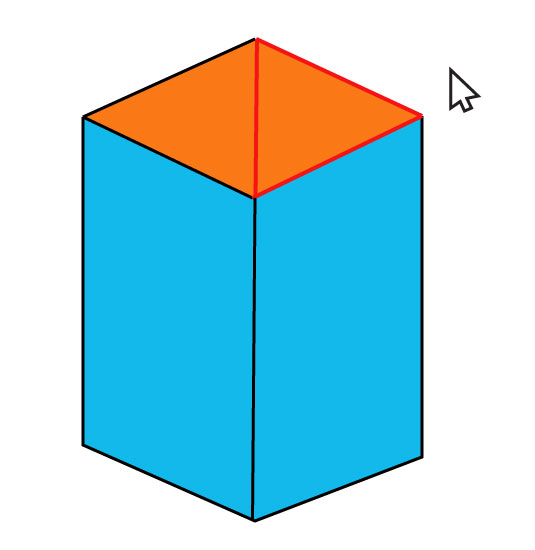
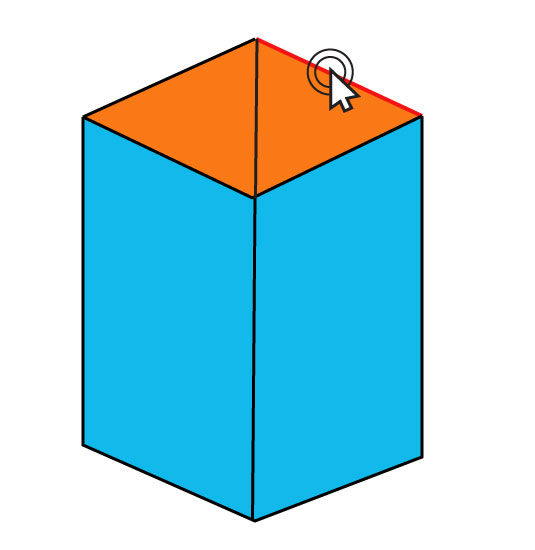
fix texts, help images, remove goNextPageAutomatic option, fix test questions

diff --git a/src/app/components/witkin/WitkinHelp.html b/src/app/components/witkin/WitkinHelp.html
@@ -1,37 +1,41 @@
-<div class="marginLeft10"><h3>Інструкція.</h3>
+<div class="marginLeft10">
+  <h2 class="text-center">Методика 3</h2>
+  <p>
+    Інструкція. Вам буде показано 24 складні фігури. До кожної складної
+    фігури буде запропоновано просту фігуру, яка міститься у складній і є
+    її частиною. Ваше завдання – знайти і виділити цю просту фігуру у
+    складній.
+    На пошук кожної простої фігури  надається 120 секунд. Результатом
+    тесту вважається час, витрачений на виконання всіх 24 завдань.
+  </p>
+  <h2 class="text-center">Приклад</h2>
   <div>
-    <p>1. Спочатку, впродовж п’ятнадцяти секунд, ви побачите складну фігуру. Її необхідно ретельно роздивитись і запам’ятати. (Ілюстрація 1)</p>
+    <p>1. Спочатку, впродовж п’ятнадцяти секунд, ви побачите складну фігуру.(Ілюстрація 1) Її необхідно ретельно роздивитись і запам’ятати. </p>
     <img src="images/witkin_help_1.jpg" id="image1"><label for="image1">Ілюстрація 1</label><Br>
   </div>
   <div>
-    <p>2. Далі на екрані з’явиться проста фігура. Це триватиме десять секунд. Після того, ви знов побачите складну фігуру. Разом з тим розпочнеться відлік часу.  (Ілюстрація 2) </p>
-    <img src="images/witkin_help_2.jpg" id="image2"><label for="image1">Ілюстрація 2</label><Br>
+    <p>2. Далі на екрані з’явиться проста фігура. (Ілюстрація 2) Це триватиме десять секунд. Після того, ви знов побачите складну фігуру. Разом з тим розпочнеться відлік часу. </p>
+    <img src="images/witkin_help_2.jpg" id="image2"><label for="image2">Ілюстрація 2</label><Br>
   </div>
   <div>
-    <p>3. Як тільки ви віднайдете просту фігуру у складній, натисніть кнопку «ФІГУРУ ЗНАЙДЕНО».</p>
+    <p>3. Як тільки ви віднайдете просту фігуру у складній, натисніть кнопку «ФІГУРУ ЗНАЙДЕНО». (Ілюстрація 3)</p>
+    <img src="images/witkin_help_3.jpg" id="image3" style="padding: 30px"><label for="image3">Ілюстрація 3</label><Br>
   </div>
   <div>
     <p>4. Усі лінії складної фігури стануть інтерактивними. При наведенні курсору лінія забарвлюється в синій колір.  (Ілюстрація 3) </p>
-    <img src="images/witkin_help_3.jpg" id="image3"><label for="image1">Ілюстрація 3</label><Br>
+    <img src="images/witkin_help_4.jpg" id="image4"><label for="image4">Ілюстрація 4</label><Br>
   </div>
   <div>
     <p>5. Щоб виділити лінію, клацніть по ній лівою кнопкою миші. Колір лінії при цьому зміниться на жовтий.  (Ілюстрація 4) </p>
-    <img src="images/witkin_help_4.jpg" id="image4"><label for="image1">Ілюстрація 4</label><Br>
+    <img src="images/witkin_help_5.jpg" id="image5"><label for="image5">Ілюстрація 5</label><Br>
   </div>
   <div>
-    <p>За допомогою курсору слід виділити ті грані складної фігури, які утворюють просту фігуру (Ілюстрація 5). Коли завдання виконано, натисніть кнопку «ДАЛІ». </p>
-    <img src="images/witkin_help_5.jpg" id="image5"><label for="image1">Ілюстрація 5</label><Br>
+    <p>За допомогою курсору слід виділити ті лінії складної фігури, які утворюють просту фігуру (Ілюстрація 5). Коли завдання виконано, натисніть кнопку «ДАЛІ». </p>
+    <img src="images/witkin_help_6.jpg" id="image6"><label for="image6">Ілюстрація 6</label><Br>
   </div>
-
-  <div class="alert alert-danger text-center">
-    <h2>Увага!</h2>
-    <strong>Дуже важливо натискати кнопку «ФІГУРУ ЗНАЙДЕНО» тільки після того як ви побачили просту фігуру у складній. Це необхідно для отримання коректних результатів нашого дослідження. В іншому випадку воно виявиться недостовірним.
-      Дякуємо за свідому позицію!</strong>
-  </div>
-  <hr>
   <div class="form-group">
     <div class="col-sm-6 col-sm-offset-3">
-      <button type="submit" class="btn btn-primary btn-block" ng-click="$ctrl.startTest()">Розпочати тест</button>
+      <button type="submit" class="btn btn-primary btn-block" ng-click="$ctrl.startTest()">Далі</button>
     </div>
   </div>
   <br>

diff --git a/src/app/components/circles/CirclesTest.html b/src/app/components/circles/CirclesTest.html
@@ -1,8 +1,15 @@
 <div ng-hide="$ctrl.isTestStarted" style="width: 90%" class="marginLeft10">
+  <br>
+  <div class="alert alert-info text-center">
+    Дві наступні методики створено, щоб дізнатися, як люди регулюють свої
+    взаємовідносини. Перша спрямована на з’ясування загальних особливостей
+    Ваших стосунків з певною людиною. Друга методика досліджує Ваші дії та
+    переживання у стосунках з тою ж людиною.
+  </div>
   <h2 class="text-center">Методика 1</h2>
   <div>
-    <p>За допомогою кіл на цьому малюнку зображено різні варіанти стосунків між людьми. Кола можуть бути одне над іншим, далеко одне від одного, близько, можуть перетинатися, сполучатися і т. д. </p>
-    <p>Будь ласка, пригадайте конкретну людину у вашому житті, стосунки з якою підпадають під один з доступних для вибору варіантів. Це може бути будь-хто, з ким ви бачитеся раз на місяць або набагато частіше, спілкуєтесь, можливо робите щось разом, тобто маєте більш-менш інтенсивні взаємовідносини.</p>
+    <p><strong>Інструкція.</strong> За допомогою кіл на цьому малюнку зображено різні варіанти стосунків між людьми. Кола можуть бути одне над іншим, далеко одне від одного, близько, можуть перетинатися, сполучатися і т. д. </p>
+    <p>Будь ласка, пригадайте конкретну людину у вашому житті, стосунки з якою підпадають під один з доступних для вибору варіантів. (Це може бути будь-хто, з ким ви бачитеся раз на місяць або набагато частіше, спілкуєтесь, можливо робите щось разом, тобто маєте більш-менш інтенсивні взаємовідносини.)</p>
     <strong class="text-center">Щоб зробити свій вибір, клацніть по обраному вами зображенню.</strong>
   </div>
   <br>
@@ -39,10 +46,10 @@
     </div>
   </div>
   <p>Якщо вам не вдається згадати людину, стосунки з якою підпадали б під один з доступних варіантів, ми пропонуємо краще відмовитися від подальшого тестування, аніж «підтягувати» не зовсім відповідні стосунки під доступний для вибору варіант. Інакше, це може негативно вплинути на успішність нашого дослідження.</p>
-  <p>У будь-якому випадку, ми надзвичайно вдячні вам за готовність допомогти нам у реалізації цього проекту</p>
+  <p>У будь-якому випадку, ми надзвичайно вдячні вам за готовність допомогти у реалізації цього проекту</p>
   <br>
   <div class="col-sm-6 col-sm-offset-4">
     <button type="submit" class="btn btn-green" ng-click="$ctrl.nextTest()">ПРОДОВЖИТИ ДАЛІ</button>
-    <button type="submit" class="btn btn-red" ng-click="$ctrl.finishTest()">ЗАВЕРШИТИ ТЕСТУВАННЯ</button>
+    <button type="submit" class="btn btn-red" ng-click="$ctrl.finishTest()">Не продовжувати ТЕСТУВАННЯ</button>
   </div>
 </div>

diff --git a/src/app/components/witkin/WitkinTest.js b/src/app/components/witkin/WitkinTest.js
@@ -15,6 +15,7 @@ class WitkinTestController {
     this.isTimerStarted = false;
     this.TEXT_STEP_1 = 'Складна фігура';
     this.TEXT_STEP_2 = 'Проста фігура';
+    this.MAX_SEARCH_TIME = 120;
     this.canvas = new fabric.Canvas('c');
     this.id = parseInt($stateParams.id, 10);
     $http.get('tests/test' + this.id + '.json')
@@ -72,7 +73,7 @@ class WitkinTestController {
       });
     });
     this.showLayers(['background', 'lines'].concat(this.answers));
-    this.info = this.TEXT_STEP_1 + ' ' + (this.SHOW_TEST_TIME / 1000) + ' с. ';
+    this.info = this.TEXT_STEP_1 + ' ' + this.id + ' з ' + this.TESTS_COUNT + ' - ' + (this.SHOW_TEST_TIME / 1000) + ' с. ';
     this.refresh();
     console.log('init complete');
     this.$timeout(this.showRequired.bind(this), 1000);
@@ -120,7 +121,7 @@ class WitkinTestController {
       this.refresh();
       this.$timeout(this.startTimer.bind(this), 1000);
     } else {
-      this.info = this.TEXT_STEP_1 + ' ' + (this.SHOW_TEST_TIME / 1000) + ' с. ';
+      this.info = this.TEXT_STEP_1 + ' ' + this.id + ' з ' + this.TESTS_COUNT + ' - ' + (this.SHOW_TEST_TIME / 1000) + ' с. ';
       this.$timeout(this.showRequired.bind(this), 1000);
     }
   }
@@ -132,9 +133,19 @@ class WitkinTestController {
       this.info = '';
       this.isTimerStarted = true;
       this.refresh();
+      this.$timeout(this.showElapsedTime.bind(this), 1000);
     } else {
       this.info = this.TEXT_STEP_2 + ' ' + (this.SHOW_REQUIRED_TIME / 1000) + ' с. ';
       this.$timeout(this.startTimer.bind(this), 1000);
+    }
+  }
+  showElapsedTime() {
+    if (!this.isTestStarted) {
+      const currentTime = parseInt(this.getCurrentTime() - this.startTime, 10);
+      if (currentTime <= this.MAX_SEARCH_TIME) {
+        this.info = `Пошук фігури: ${currentTime} с.`;
+        this.$timeout(this.showElapsedTime.bind(this), 1000);
+      }
     }
   }
   startTest() {
@@ -210,6 +221,7 @@ class WitkinTestController {
         const nextTest = this.id + 1;
         this.$state.go('witkin-start', {id: nextTest});
       } else if (this.userService.getFirstTestName() === 'circles') {
+        // TODO: send results to db
         this.$state.go('end');
       } else {
         this.$state.go('circles');

diff --git a/src/app/components/witkin/WitkinHelp2.html b/src/app/components/witkin/WitkinHelp2.html
@@ -1,0 +1,17 @@
+  <br>
+  <br>
+  <div class="alert alert-danger text-center">
+    <h2>Увага!</h2>
+    <strong>  Дуже важливо натискати кнопку «ФІГУРУ ЗНАЙДЕНО» тільки після того, як
+      ви побачили просту фігуру у складній. Це необхідно для отримання
+      коректних результатів нашого дослідження. Якщо Ви натискатимете цю
+      кнопку передчасно, тестування виявиться недостовірним.  <br>
+      Дякуємо за свідому позицію!</strong>
+  </div>
+  <div class="form-group">
+    <div class="col-sm-6 col-sm-offset-3">
+      <button type="submit" class="btn btn-primary btn-block" ng-click="$ctrl.startTest()">Розпочати тест</button>
+    </div>
+  </div>
+  <br>
+  <br>

diff --git a/src/app/components/assertions/AssertionTest.js b/src/app/components/assertions/AssertionTest.js
@@ -17,7 +17,7 @@ class AssertionTestController {
     Survey.Survey.cssType = 'bootstrap';
     Survey.defaultBootstrapCss.navigationButton = 'btn btn-green';
     Survey.defaultBootstrapCss.progressBar = 'bar-green';
-    const surveyJSON = {locale: 'ru', pages: [], requiredText: '', showProgressBar: 'top', goNextPageAutomatic: true};
+    const surveyJSON = {locale: 'ru', pages: [], requiredText: '', showProgressBar: 'top', goNextPageAutomatic: false};
     const len = questions.length;
     for (let i = 0; i < len; i++) {
       if (questions[i].length > 0) {
@@ -69,6 +69,7 @@ class AssertionTestController {
   finishTest(survey) {
     // const resultAsString = angular.toJson(survey.data);
     this.userService.setAssertions(survey.data);
+    // TODO: send results to db
     if (this.userService.getUser().firstTest === 'witkin') {
       this.$state.go('end');
     } else {

diff --git a/src/index.js b/src/index.js
@@ -7,6 +7,7 @@ import {main} from './app/components/Main';
 import {editor} from './app/components/editor/Editor';
 import {witkinTest} from './app/components/witkin/WitkinTest';
 import {witkinHelp} from './app/components/witkin/WitkinHelp';
+import {witkinHelp2} from './app/components/witkin/WitkinHelp2';
 import {assertionTest} from './app/components/assertions/AssertionTest';
 import {circlesTest} from './app/components/circles/CirclesTest';
 import {endTest} from './app/components/end/EndTest';
@@ -23,6 +24,7 @@ angular
   .component('editor', editor)
   .component('visualTest', witkinTest)
   .component('witkinHelp', witkinHelp)
+  .component('witkinHelp2', witkinHelp2)
   .component('assertionTest', assertionTest)
   .component('circlesTest', circlesTest)
   .component('endTest', endTest);

diff --git a/src/app/components/Main.js b/src/app/components/Main.js
@@ -47,13 +47,13 @@ class MainController {
       city: this.$scope.city,
       time: moment().valueOf()
     };
-    if (this.firstTest === 'witkin') {
-      user.firstTest = 'circles';
-    } else {
-      user.firstTest = 'witkin';
-    }
+    user.firstTest = 'circles'; // now circles always is first
+    // if (this.firstTest === 'witkin') {
+    //   user.firstTest = 'circles';
+    // } else {
+    //   user.firstTest = 'witkin';
+    // }
     this.userService.setUser(user);
-    // TODO: добавить "позиционное уравнивание"
     this.$state.go(user.firstTest);
     console.log('user start', user.firstTest);
     // this.$state.go('witkin', {id: 1});

diff --git a/src/app/components/witkin/WitkinHelp2.js b/src/app/components/witkin/WitkinHelp2.js
@@ -3,14 +3,14 @@ class WitkinHelpController {
     this.$state = $state;
   }
   startTest() {
-    this.$state.go('witkin-before-start', {id: 1});
+    this.$state.go('witkin-start', {id: 1});
   }
 }
 
 WitkinHelpController.$inject = ['$state'];
 
-export const witkinHelp = {
-  template: require('./WitkinHelp.html'),
+export const witkinHelp2 = {
+  template: require('./WitkinHelp2.html'),
   controller: WitkinHelpController
 };
 

diff --git a/src/app/components/Main.html b/src/app/components/Main.html
@@ -62,7 +62,7 @@
       </div>
     </div>
     <div class="alert alert-info text-center">
-      <strong>Гарантуємо повну конфіденційність щодо наданої Вами інформаці</strong>
+      <strong>Гарантуємо повну конфіденційність щодо наданої Вами інформації</strong>
     </div>
     <hr>
     <div class="form-group">

diff --git a/src/routes.js b/src/routes.js
@@ -22,6 +22,10 @@ function routesConfig($stateProvider, $urlRouterProvider, $locationProvider) {
       url: '/witkin-help',
       component: 'witkinHelp'
     })
+    .state('witkin-before-start', {
+      url: '/witkin-help2',
+      component: 'witkinHelp2'
+    })
     .state('assertions', {
       url: '/assertions',
       component: 'assertionTest'
